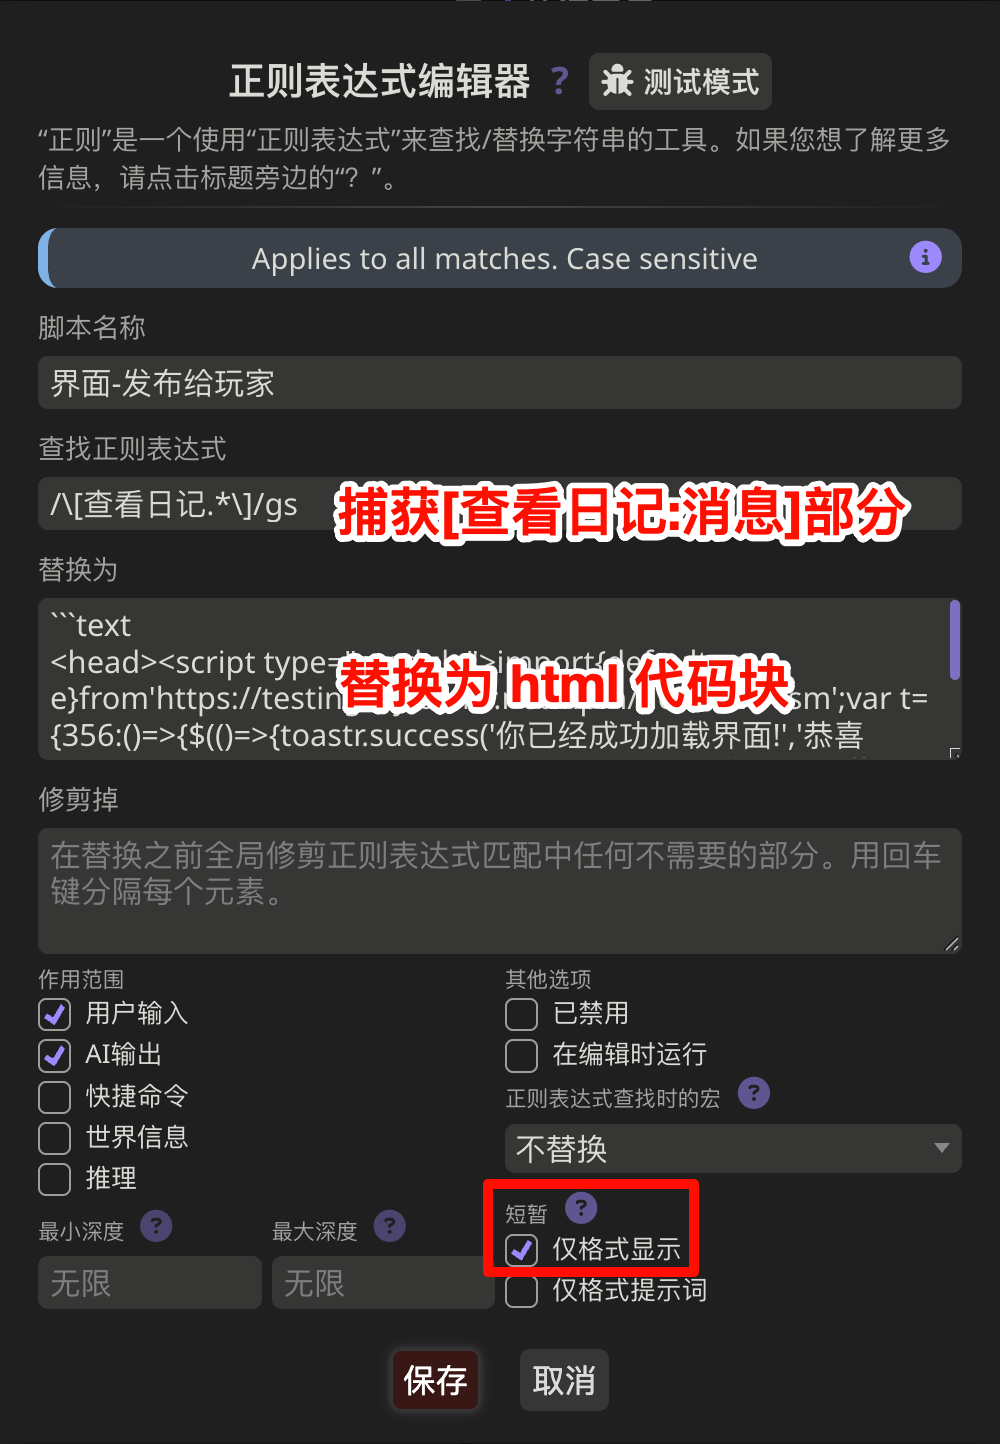
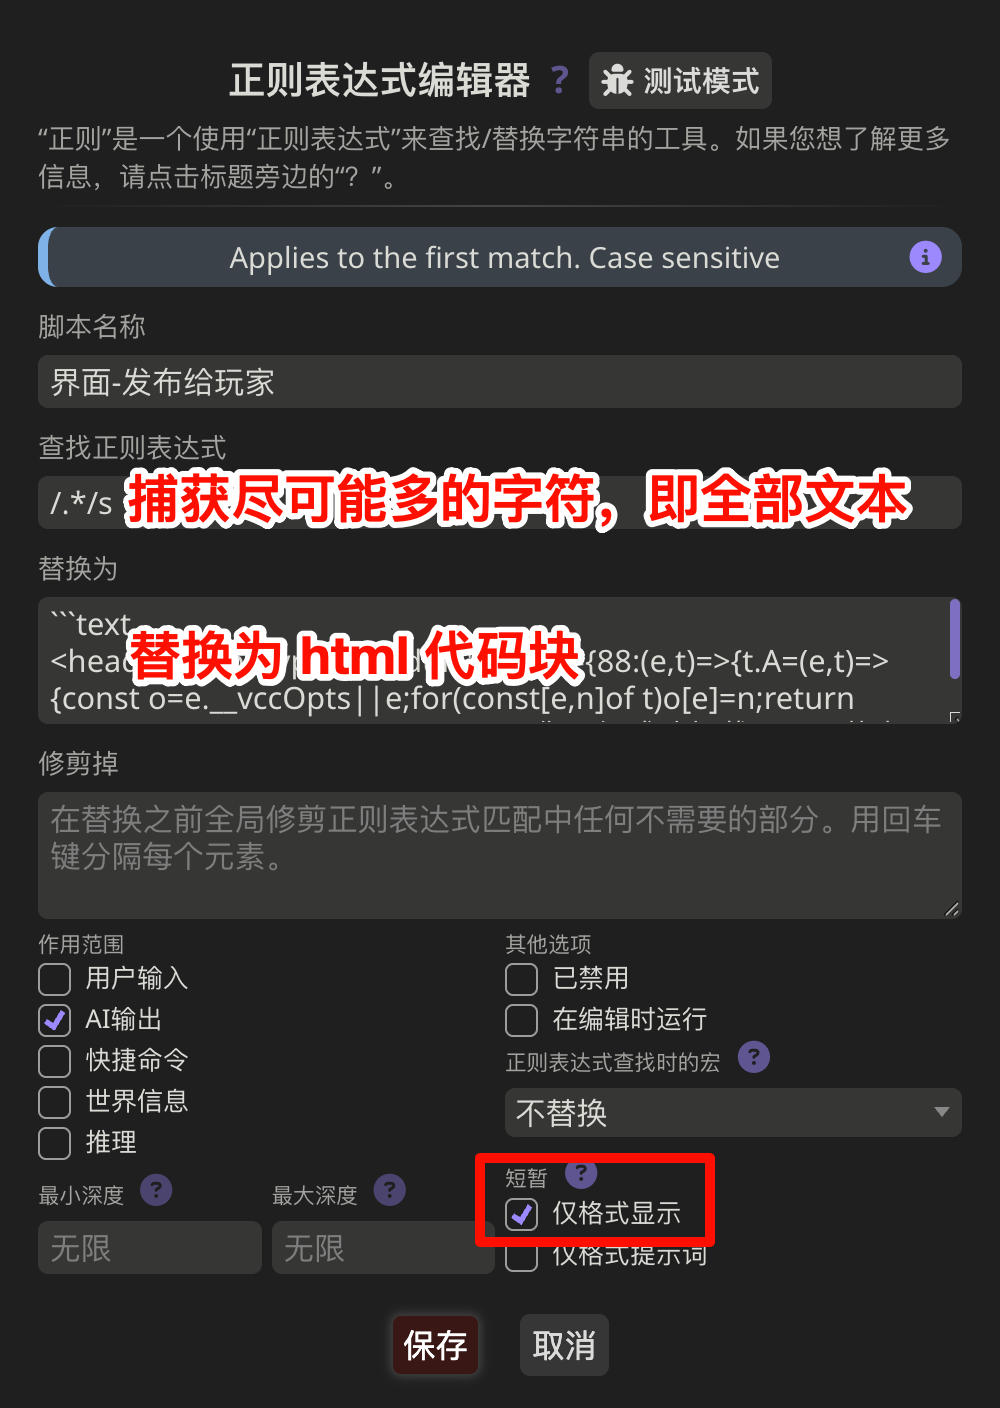
[青空莉/工具经验/实时编写前端界面或脚本] 更新示例

diff --git a/青空莉/工具经验/实时编写前端界面或脚本/阅读示例/index.md b/青空莉/工具经验/实时编写前端界面或脚本/阅读示例/index.md
@@ -100,19 +100,19 @@
 :::{figure} 酒馆正则.png
 :::
 
-`界面-发布给玩家` 正则所做的, 就是捕获 AI 回复中的 `[查看日记: 消息]` 部分, 并将其替换为 html 代码块.
+`界面-发布给玩家` 正则所做的, 就是捕获 AI 回复中尽可能多的字符, 即捕获全部文本, 并将其替换为 html 代码块.
 
 :::{figure} 界面-发布给玩家正则.png
 :::
 
-回过头来, 为什么打开`界面-发布给玩家`正则后会收到整整三条弹窗提示呢? 因为我们的消息楼层中总共有三个 `[查看日记: 消息]`, 正则会依次捕获替换, 而酒馆助手由此渲染了三个前端界面:
+回过头来, 为什么打开`界面-发布给玩家`正则后会收到整整三条弹窗提示呢? 因为我们总共有三个消息楼层, 正则会依次捕获替换, 而酒馆助手由此渲染了三个前端界面:
 
 :::{figure} 渲染三个前端界面.png
 :::
 
 为了进一步验证这一点, 我们点击{menuselection}`铅笔`来编辑其中一个消息楼层. 当我们点击铅笔时, 仅该消息楼层的前端界面被卸载而有了一个 `你已经卸载界面!` 提示; 当我们点击保存时, 酒馆助手又重新渲染这个前端界面而有了 `你已经成功加载界面!` 提示.
 
-前端界面能做的不仅仅是显示而已, 你还可以和它交互而执行对应的代码. 例如, 我们点击示例中的前端界面, 将会发现自己发送了一条消息, 并且输入框右下角显示出正在生成的图标:
+前端界面能做的不仅仅是显示而已, 你还可以和它交互而执行对应的代码. 例如, 我们点击示例中的前端界面, 将会发现这个界面变成了选择框, 而再点击将会发现自己发送了一条消息, 并且输入框右下角显示出正在生成的图标:
 
 :::{figure} 与前端界面交互.png
 :::
